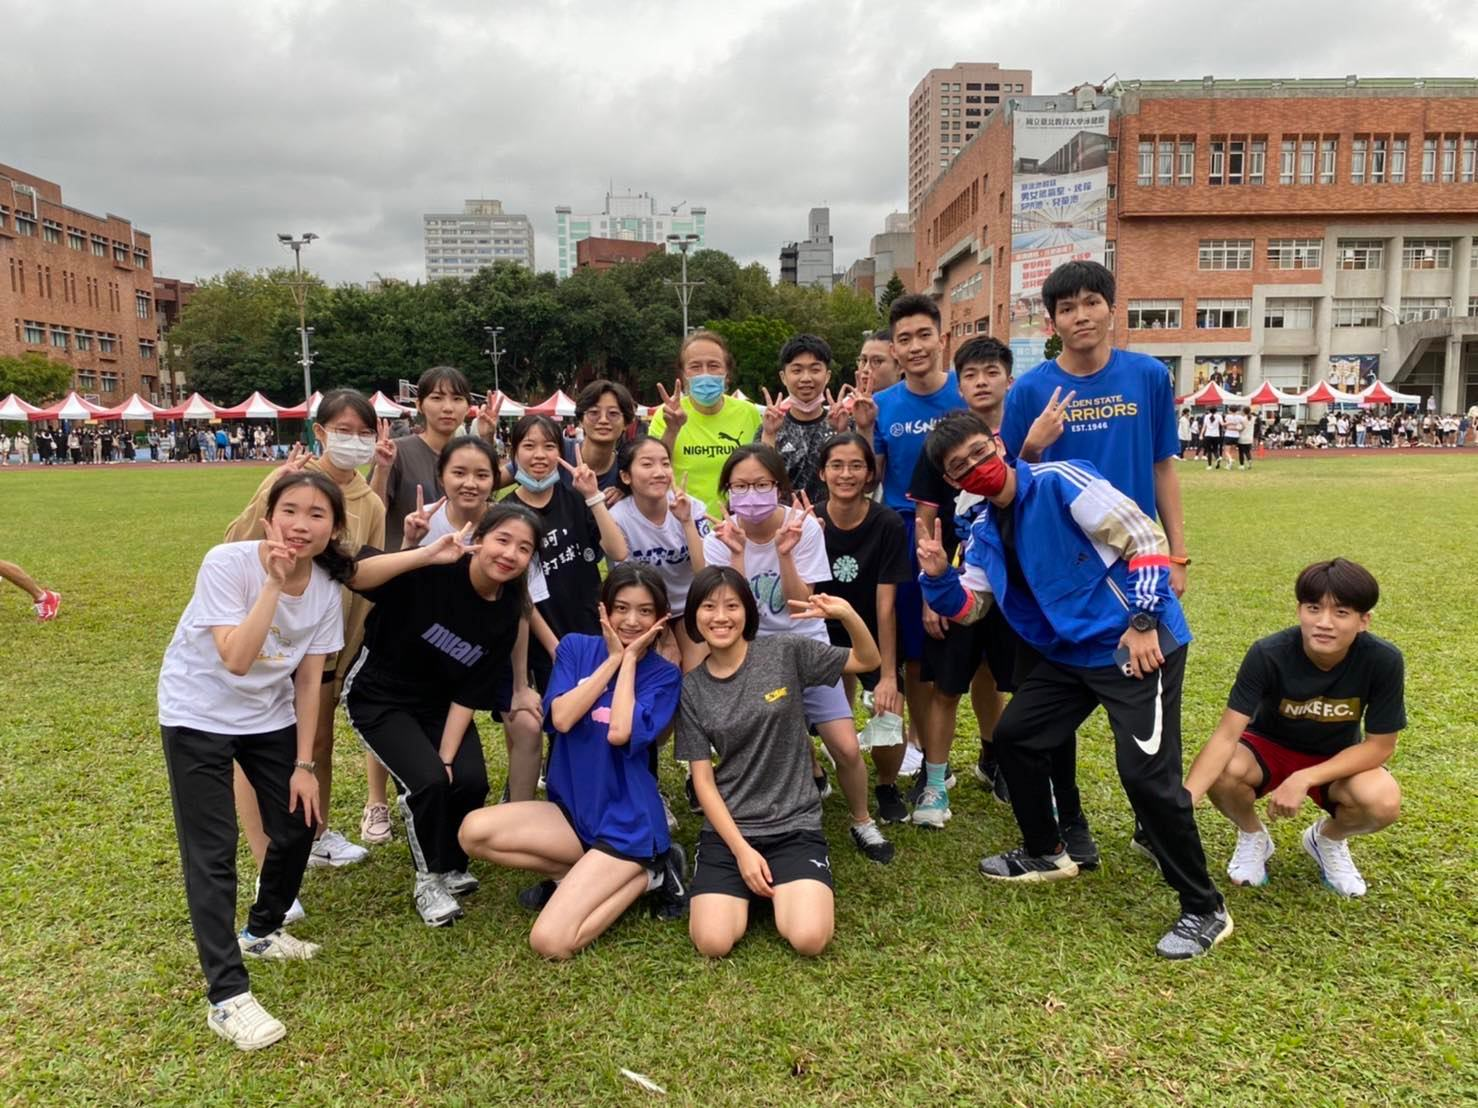
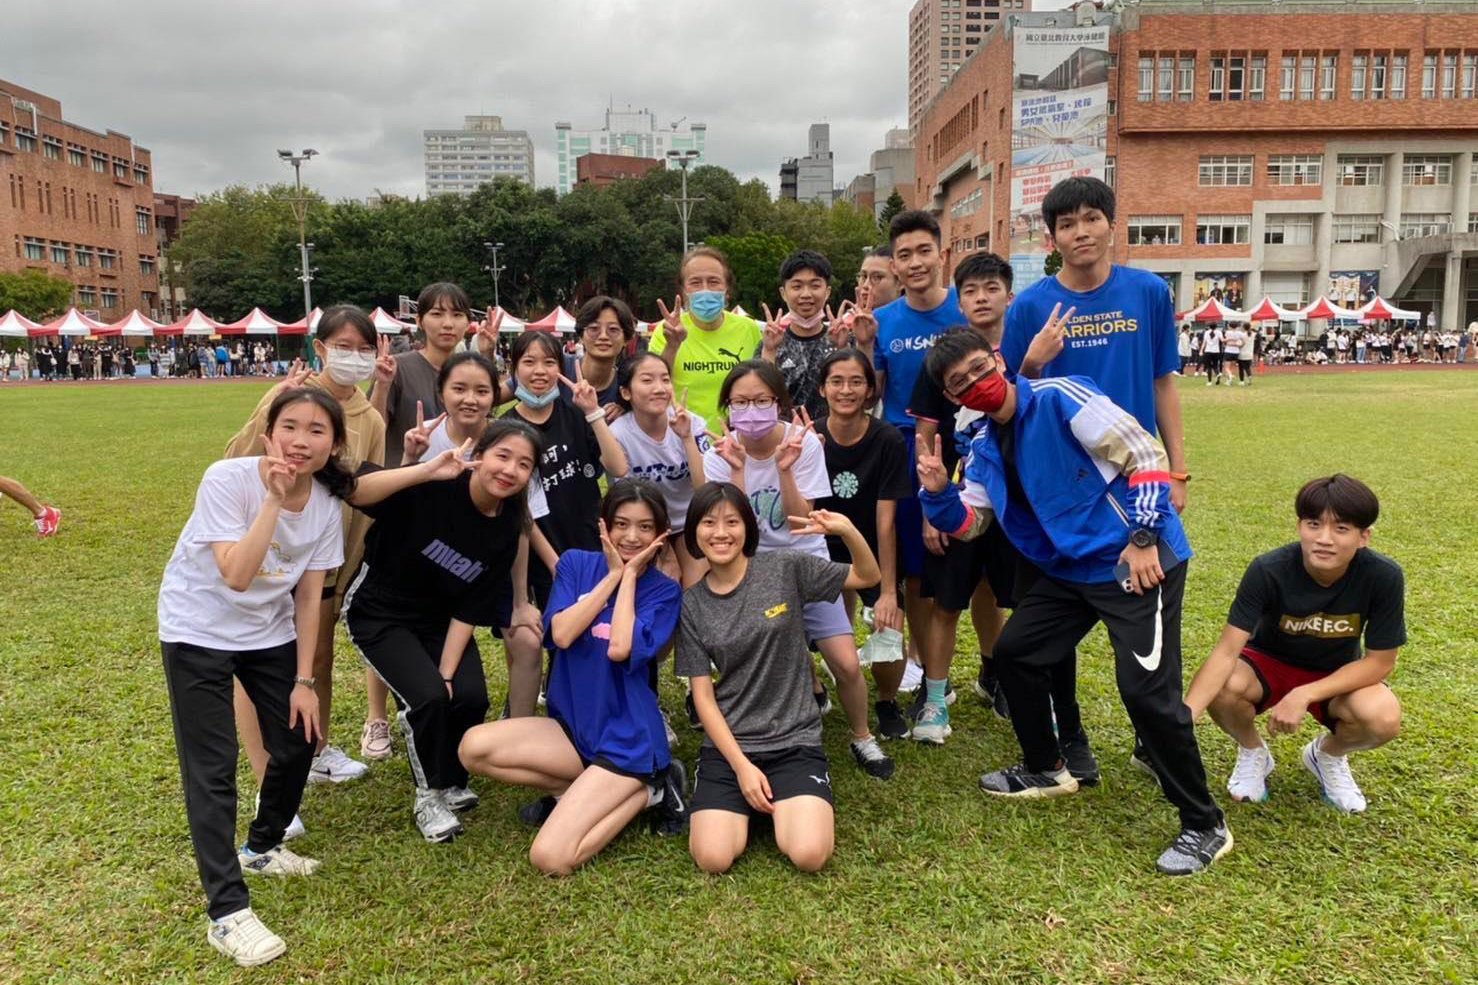
contact 提示資料未填寫完整 照片裁切

diff --git a/index.html b/index.html
@@ -317,21 +317,21 @@
                             <div class="row">
                                 <div class="col-md-6">
                                     <div class="form-group">
-                                        <input type="text" class="form-control" placeholder="Your Name *" id="name" required data-validation-required-message="Please enter your name.">
+                                        <input type="text" class="form-control" placeholder="Your Name *" id="name" data-validation-required-message="Please enter your name." required>
                                         <p class="help-block text-danger"></p>
                                     </div>
                                     <div class="form-group">
-                                        <input type="email" class="form-control" placeholder="Your Email *" id="email" required data-validation-required-message="Please enter your email address.">
+                                        <input type="email" class="form-control" placeholder="Your Email *" id="email" data-validation-required-message="Please enter your email address." required>
                                         <p class="help-block text-danger"></p>
                                     </div>
                                     <div class="form-group">
-                                        <input type="tel" class="form-control" placeholder="Your Phone *" id="phone" required data-validation-required-message="Please enter your phone number.">
+                                        <input type="tel" class="form-control" placeholder="Your Phone *" id="phone" data-validation-required-message="Please enter your phone number." required>
                                         <p class="help-block text-danger"></p>
                                     </div>
                                 </div>
                                 <div class="col-md-6">
                                     <div class="form-group">
-                                        <textarea class="form-control" placeholder="Your Message *" id="message" required data-validation-required-message="Please enter a message."></textarea>
+                                        <textarea class="form-control" placeholder="Your Message *" id="message" data-validation-required-message="Please enter a message." required></textarea>
                                         <p class="help-block text-danger"></p>
                                     </div>
                                 </div>
@@ -394,7 +394,7 @@
                                 <!-- Project Details Go Here -->
                                 <h2>About me</h2>
                                 <p class="item-intro text-muted"></p>
-                                <img class="img-responsive" src="https://unsplash.imgix.net/uploads%2F1411419068566071cef10%2F7562527b?q=75&w=1080&h=1080&fit=max&fm=jpg&auto=format&s=240c45655f09c546232a6f106688e502" alt="">
+                                <img class="img-responsive" src="./images/contact2.jpg" alt="">
                                 <p>一個喜歡籃球的人，而偶像是著名的籃球員，會想做這個主題是因為，發覺網路上都沒有他的個人網站，所以想說來設計一個相關的網站，讓更多人可以認識他。</p>
                                 <p>
                                     <strong>如果你也喜歡籃球</strong>歡迎和我一起分享
@@ -428,7 +428,7 @@
                             <div class="modal-body">
                                 <h2>Skill</h2>
                                 <p class="item-intro text-muted"></p>
-                                <img class="img-responsive img-centered" src="https://unsplash.imgix.net/44/9s1lvXLlSbCX5l3ZaYWP_hdr-1.jpg?q=75&w=1080&h=1080&fit=max&fm=jpg&auto=format&s=f0a1db79752dbb04ec6d2aab7d17c7b0" alt="">
+                                <img class="img-responsive img-centered" src="./images/contact3.jpg" alt="">
                                 <p> 這個網頁一開始讓我最咼擾的地方是RWD，我一直想說我要先把排版排好再做RWD、還是要一起完成，，但最終我兩個方案都試過了，因為我用第一個方案的時候發覺排版整整個跑超多，後面問了同學才知道一起寫會比較好懂，因此我就把寫4天多的檔案刪掉重頭來一次，但這次就順利的把這個問題了，這個要<strong>特別感謝唐醫生</strong>，沒有他應該完成不了。</p>
                                 <P>運用的技術:HTML、CSS、RWD、JS、boostrape、fonat awesome</P>
                                 <p>參考網站&說明: <a href="https://codepen.io/your-work">Codepen</a>、<a href="https://www.w3schools.com/">W3School</a>、<a href="https://getbootstrap.com/docs/5.1/getting-started/introduction/">Boostrape</a>、老師PPT</p>
@@ -456,7 +456,7 @@
                                 <!-- Project Details Go Here -->
                                 <h2>Works</h2>
                                 <p class="item-intro text-muted"></p>
-                                <img class="img-responsive img-centered" src="https://unsplash.imgix.net/46/Ov6ZY1zLTWmhPC0wFysP_IMG_2896_edt.jpg?q=75&w=1080&h=1080&fit=max&fm=jpg&auto=format&s=6518e4df89659818f6c0392175a9c5e6" alt="">
+                                <img class="img-responsive img-centered" src="./images/contact4.jpg" alt="">
                                 <p>作品1: <a href="https://benson0409.github.io/website-midterm/" target="_blank">Heavy Motocycle </a> </p>
                                 <p>作品2: <a href="https://benson0409.github.io/vegetable/" target="_blank">Vegetable Typesetting</a></p>
                                 <p>作品3: <a href="https://benson0409.github.io/login-page/" target="_blank">Login-page</a></p>

diff --git a/script.js b/script.js
@@ -79,19 +79,24 @@ $(document).ready(function() {
         let phone = $phone.val();
         let message = $message.val();
         // SAVE DATA TO FIREBASE
-        messageCollectionRef.add({
-            sendername: sendername,
-            email: email,
-            phone: phone,
-            message: message,
-            // timeStamp: data.now(),
+        if ((sendername | email | phone | message) == "") {
+            alert("填寫資料不正確");
+        } else {
+            messageCollectionRef.add({
+                sendername: sendername,
+                email: email,
+                phone: phone,
+                message: message,
+                // timeStamp: data.now(),
 
-        });
-        console.log("789");
-        $name.val("");
-        $email.val("");
-        $phone.val("");
-        $message.val("");
+            });
+            console.log("789");
+            $name.val("");
+            $email.val("");
+            $phone.val("");
+            $message.val("");
+            alert("送出成功");
+        }
     });
 
 });
